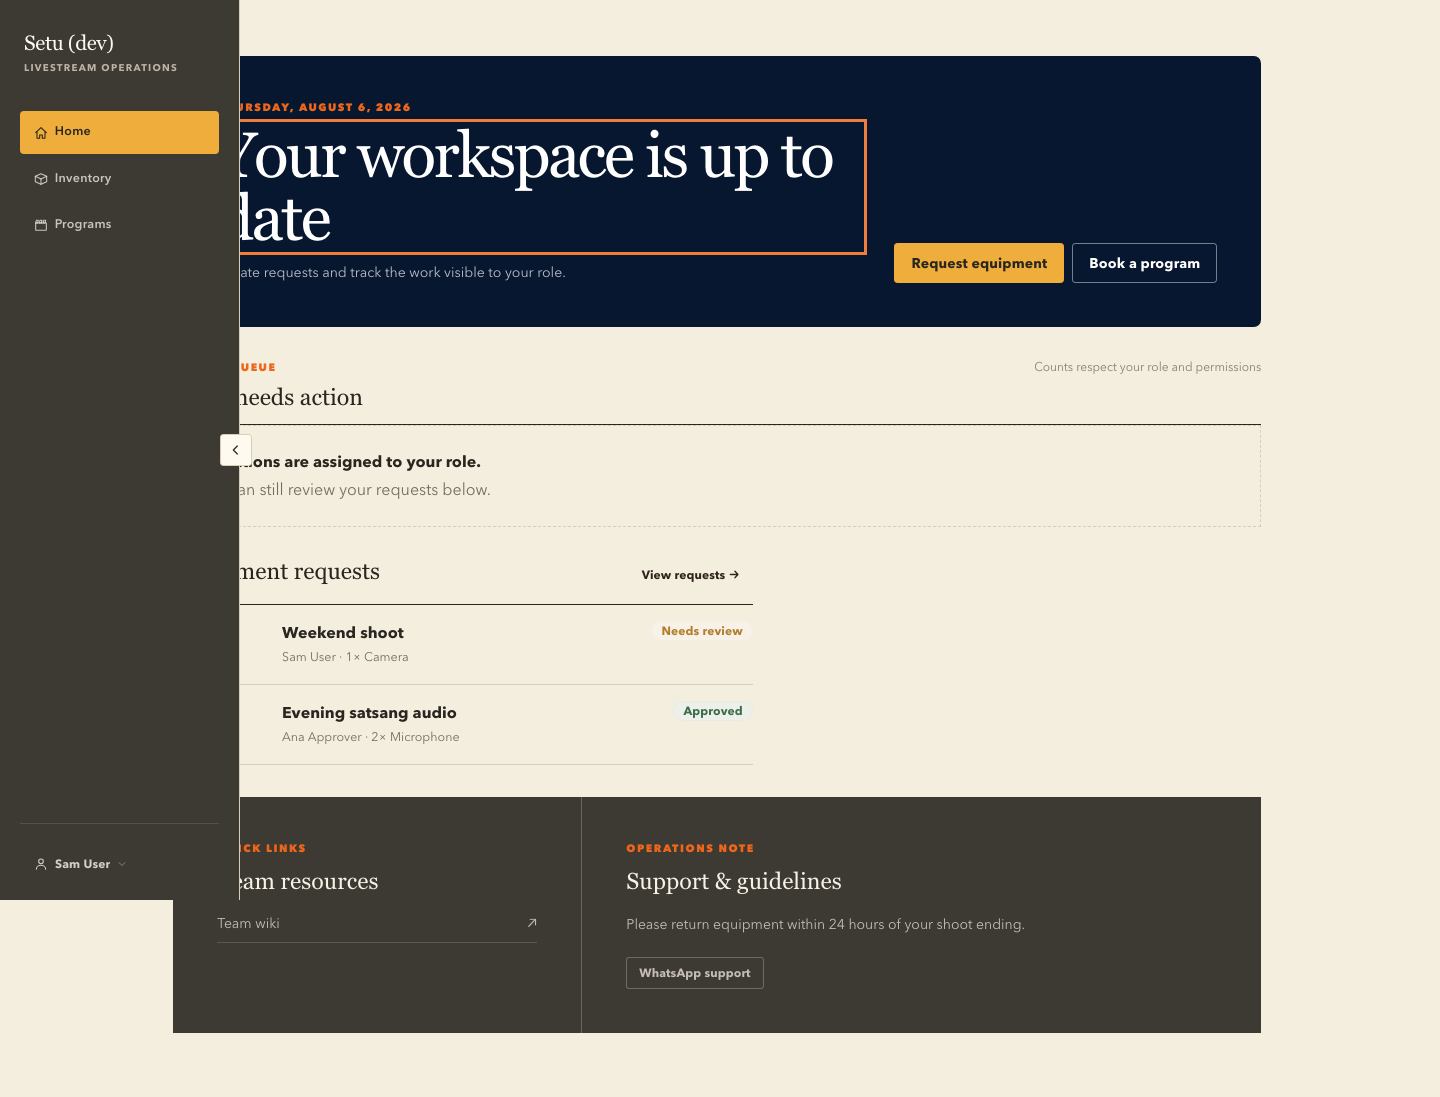
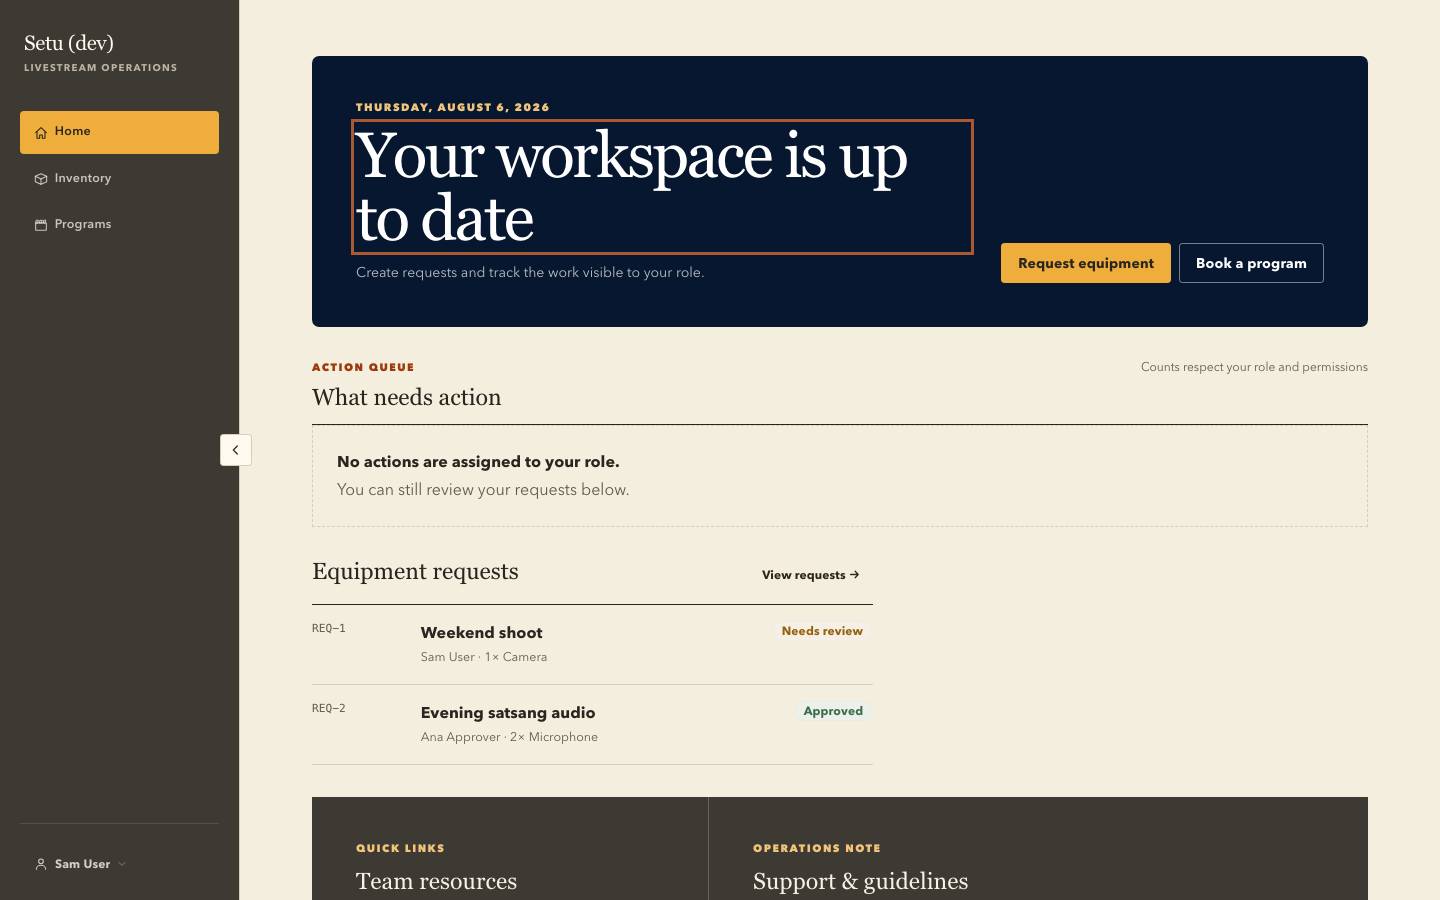
Finalize browser acceptance evidence

diff --git a/test/e2e/evidence.spec.ts b/test/e2e/evidence.spec.ts
@@ -11,11 +11,11 @@ test('capture desktop evidence', async ({ page }, testInfo) => {
     test.skip(!testInfo.project.name.startsWith('desktop'), 'desktop evidence');
     await page.goto(`/?${fast}`);
     await expect(page.getByRole('heading', { name: /actions need attention/i })).toBeVisible();
-    await page.screenshot({ path: `${output}/01-admin-home-desktop.png`, fullPage: true });
+    await page.screenshot({ path: `${output}/01-admin-home-desktop.png`, fullPage: false });
 
     await page.goto(`/?${fast}&mockUser=sam%40example.com`);
     await expect(page.getByRole('heading', { name: 'Your workspace is up to date' })).toBeVisible();
-    await page.screenshot({ path: `${output}/02-user-home-desktop.png`, fullPage: true });
+    await page.screenshot({ path: `${output}/02-user-home-desktop.png`, fullPage: false });
 
     await page.goto(`/?section=programs&mode=create&${fast}`);
     const date = new Date(Date.now() + 4 * 86_400_000).toISOString().slice(0, 10);
@@ -25,19 +25,19 @@ test('capture desktop evidence', async ({ page }, testInfo) => {
     await page.getByLabel('Start').fill(`${date}T09:30`);
     await page.getByLabel('End').fill(`${date}T10:30`);
     await expect(page.getByText(/approved booking conflict/i)).toBeVisible();
-    await page.screenshot({ path: `${output}/06-program-conflict-desktop.png`, fullPage: true });
+    await page.screenshot({ path: `${output}/06-program-conflict-desktop.png`, fullPage: false });
 
     await page.goto(`/?section=tickets&ticket=ticket-1&${fast}`);
     await expect(page.getByRole('heading', { name: 'Projector flickering' })).toBeVisible();
-    await page.screenshot({ path: `${output}/07-ticket-activity-desktop.png`, fullPage: true });
+    await page.screenshot({ path: `${output}/07-ticket-activity-desktop.png`, fullPage: false });
 
     await page.goto(`/?section=roster&${fast}`);
     await expect(page.getByText('August 2026')).toBeVisible();
-    await page.screenshot({ path: `${output}/08-roster-month-desktop.png`, fullPage: true });
+    await page.screenshot({ path: `${output}/08-roster-month-desktop.png`, fullPage: false });
 
     await page.goto(`/?section=home-settings&${fast}`);
     await expect(page.getByRole('heading', { name: 'Home settings' })).toBeVisible();
-    await page.screenshot({ path: `${output}/11-settings-desktop.png`, fullPage: true });
+    await page.screenshot({ path: `${output}/11-settings-desktop.png`, fullPage: false });
 });
 
 test('capture mobile evidence', async ({ page }, testInfo) => {
@@ -45,30 +45,32 @@ test('capture mobile evidence', async ({ page }, testInfo) => {
     await page.goto(`/?${fast}`);
     await page.getByRole('button', { name: 'Open navigation' }).click();
     await expect(page.getByRole('complementary', { name: 'Primary navigation' })).toBeVisible();
-    await page.screenshot({ path: `${output}/03-mobile-navigation.png`, fullPage: true });
+    await page.screenshot({ path: `${output}/03-mobile-navigation.png`, fullPage: false });
 
     await page.goto(`/?section=inventory&${fast}`);
     await expect(page.getByRole('heading', { name: 'Inventory' })).toBeVisible();
-    await page.screenshot({ path: `${output}/04-inventory-board-mobile.png`, fullPage: true });
+    await page.screenshot({ path: `${output}/04-inventory-board-mobile.png`, fullPage: false });
 
     await page.goto(`/?section=inventory&request=req-3&${fast}`);
     await page.getByRole('button', { name: 'Return', exact: true }).click();
     await expect(page.getByRole('dialog')).toBeVisible();
+    await page.waitForTimeout(300);
     await page.screenshot({
         path: `${output}/05-inventory-return-dialog-mobile.png`,
-        fullPage: true,
+        fullPage: false,
     });
     await page.keyboard.press('Escape');
+    await page.waitForTimeout(250);
     await page.screenshot({
         path: `${output}/10-dialog-focus-restored-mobile.png`,
-        fullPage: true,
+        fullPage: false,
     });
 
     await page.goto(`/?section=roster&${fast}`);
     await expect(page.getByRole('heading', { name: 'Roster agenda' })).toBeVisible();
-    await page.screenshot({ path: `${output}/09-roster-agenda-mobile.png`, fullPage: true });
+    await page.screenshot({ path: `${output}/09-roster-agenda-mobile.png`, fullPage: false });
 
     await page.goto(`/?${fast}&mockFailure=dashboard`);
     await expect(page.getByRole('button', { name: 'Try again' })).toBeFocused();
-    await page.screenshot({ path: `${output}/12-error-retry-state-mobile.png`, fullPage: true });
+    await page.screenshot({ path: `${output}/12-error-retry-state-mobile.png`, fullPage: false });
 });

diff --git a/test/e2e/app.spec.ts b/test/e2e/app.spec.ts
@@ -54,14 +54,15 @@ test('inventory requests can be saved, edited, and submitted as drafts', async (
     const end = new Date(Date.now() + 21 * 86_400_000).toISOString().slice(0, 10);
     await page.getByLabel('Name').fill('Draft field kit');
     await page.getByLabel('From').fill(start);
-    await page.getByLabel('To').fill(end);
+    await page.locator('#request-end').fill(end);
     await page.getByLabel('Equipment type').selectOption('inv-1');
     await page.getByRole('button', { name: 'Save draft' }).click();
     await expect(page.getByText('Draft', { exact: true }).first()).toBeVisible();
     await page.getByRole('button', { name: 'Edit draft' }).click();
     await page.getByLabel('Name').fill('Submitted field kit');
     await page.getByRole('button', { name: 'Save and submit' }).click();
-    await expect(page.getByText('Submitted', { exact: true }).first()).toBeVisible();
+    await expect(page.getByText('Needs review', { exact: true }).first()).toBeVisible();
+    await expect(page.getByText(/submitted this request/i)).toBeVisible();
 });
 
 test('rejection requires a structured reason and records the new state', async ({ page }) => {

diff --git a/docs/test-evidence/ui-ux-refactor/README.md b/docs/test-evidence/ui-ux-refactor/README.md
@@ -6,36 +6,29 @@ Offline behavior is intentionally absent from this matrix. Setu and the AppSheet
 
 ## Baseline
 
-| File | Role | Viewport | Scenario | Baseline observation |
-| --- | --- | --- | --- | --- |
-| [01-admin-home-desktop.png](baseline/01-admin-home-desktop.png) | Administrator | 1440×900 | Home | Decorative hero pushes the operational queue below the first viewport. |
-| [02-program-create-desktop.png](baseline/02-program-create-desktop.png) | Administrator | 1440×900 | Program request | Session fields have weak hierarchy and limited conflict context. |
-| [03-ticket-detail-desktop.png](baseline/03-ticket-detail-desktop.png) | Administrator | 1440×900 | Ticket detail | Reporter, priority, place, timestamps, and activity are absent. |
-| [04-roster-mobile.png](baseline/04-roster-mobile.png) | Administrator | 390×844 | Roster | The desktop calendar is compressed into the phone viewport and labels overflow. |
+| File                                                                    | Role          | Viewport | Scenario        | Baseline observation                                                            |
+| ----------------------------------------------------------------------- | ------------- | -------- | --------------- | ------------------------------------------------------------------------------- |
+| [01-admin-home-desktop.png](baseline/01-admin-home-desktop.png)         | Administrator | 1440×900 | Home            | Decorative hero pushes the operational queue below the first viewport.          |
+| [02-program-create-desktop.png](baseline/02-program-create-desktop.png) | Administrator | 1440×900 | Program request | Session fields have weak hierarchy and limited conflict context.                |
+| [03-ticket-detail-desktop.png](baseline/03-ticket-detail-desktop.png)   | Administrator | 1440×900 | Ticket detail   | Reporter, priority, place, timestamps, and activity are absent.                 |
+| [04-roster-mobile.png](baseline/04-roster-mobile.png)                   | Administrator | 390×844  | Roster          | The desktop calendar is compressed into the phone viewport and labels overflow. |
 
 ## Final evidence captured
 
-| File | Role | Viewport | Expected result | Automated coverage |
-| --- | --- | --- | --- | --- |
-| [01-admin-home-desktop.png](final/01-admin-home-desktop.png) | Administrator | 1440×900 | Role-aware action queue is visible immediately. | `admin Home exposes a role-aware action queue and filtered links` |
-| [02-user-home-desktop.png](final/02-user-home-desktop.png) | User | 1440×900 | Non-actionable queues are omitted and the personal workspace remains clear. | Four-role navigation matrix |
-| [03-mobile-navigation.png](final/03-mobile-navigation.png) | Administrator | 390×844 | Drawer navigation is usable without brand or label truncation. | Four-role navigation matrix; mobile axe scan |
-| [04-inventory-board-mobile.png](final/04-inventory-board-mobile.png) | Administrator | 390×844 | Inventory board remains readable and touch targets meet the mobile baseline. | Inventory return and mobile navigation tests |
-| [06-program-conflict-desktop.png](final/06-program-conflict-desktop.png) | Administrator | 1440×900 | Approved place conflict appears before submission. | `program form reports approved place conflicts before submission` |
-| [07-ticket-activity-desktop.png](final/07-ticket-activity-desktop.png) | Administrator | 1440×900 | Ticket metadata and activity log are visible together. | `ticket assignment and activity use structured controls` |
-| [08-roster-month-desktop.png](final/08-roster-month-desktop.png) | Administrator | 1440×900 | Month calendar remains the desktop default. | Roster desktop axe scan |
-| [11-settings-desktop.png](final/11-settings-desktop.png) | Administrator | 1440×900 | Home settings are separate from Roster presets and every control is labelled. | Legacy URL regression; settings axe scan |
-
-## Remaining capture gate
-
-The final evidence run must still regenerate the following four files after the last accessibility fixes. They are intentionally not represented by placeholders:
-
-- `05-inventory-return-dialog-mobile.png` — one structured batch-return dialog.
-- `09-roster-agenda-mobile.png` — phone agenda with no horizontal overflow.
-- `10-dialog-focus-restored-mobile.png` — focus returned to the invoking action after Escape.
-- `12-error-retry-state-mobile.png` — focused retry action after a dashboard failure.
-
-The capture gate is `npm run test:evidence`. The PR must remain Draft until this command and the complete `npm run test:ui` matrix pass in the final tree.
+| File                                                                                 | Role          | Viewport | Expected result                                                                     | Automated coverage                                                |
+| ------------------------------------------------------------------------------------ | ------------- | -------- | ----------------------------------------------------------------------------------- | ----------------------------------------------------------------- |
+| [01-admin-home-desktop.png](final/01-admin-home-desktop.png)                         | Administrator | 1440×900 | Role-aware action queue is visible immediately.                                     | `admin Home exposes a role-aware action queue and filtered links` |
+| [02-user-home-desktop.png](final/02-user-home-desktop.png)                           | User          | 1440×900 | Non-actionable queues are omitted and the personal workspace remains clear.         | Four-role navigation matrix                                       |
+| [03-mobile-navigation.png](final/03-mobile-navigation.png)                           | Administrator | 390×844  | Drawer navigation is usable without brand or label truncation.                      | Four-role navigation matrix; mobile axe scan                      |
+| [04-inventory-board-mobile.png](final/04-inventory-board-mobile.png)                 | Administrator | 390×844  | Inventory board remains readable and touch targets meet the mobile baseline.        | Inventory return and mobile navigation tests                      |
+| [05-inventory-return-dialog-mobile.png](final/05-inventory-return-dialog-mobile.png) | Administrator | 390×844  | One structured dialog records every returned item and blocks duplicate interaction. | Inventory return flow                                             |
+| [06-program-conflict-desktop.png](final/06-program-conflict-desktop.png)             | Administrator | 1440×900 | Approved place conflict appears before submission.                                  | `program form reports approved place conflicts before submission` |
+| [07-ticket-activity-desktop.png](final/07-ticket-activity-desktop.png)               | Administrator | 1440×900 | Ticket metadata and activity log are visible together.                              | `ticket assignment and activity use structured controls`          |
+| [08-roster-month-desktop.png](final/08-roster-month-desktop.png)                     | Administrator | 1440×900 | Month calendar remains the desktop default.                                         | Roster desktop axe scan                                           |
+| [09-roster-agenda-mobile.png](final/09-roster-agenda-mobile.png)                     | Administrator | 390×844  | Phone layout uses an agenda with no horizontal overflow.                            | Mobile Roster overflow test and axe scan                          |
+| [10-dialog-focus-restored-mobile.png](final/10-dialog-focus-restored-mobile.png)     | Administrator | 390×844  | Escape closes the dialog and returns focus to the invoking action.                  | Dialog focus-restoration test                                     |
+| [11-settings-desktop.png](final/11-settings-desktop.png)                             | Administrator | 1440×900 | Home settings are separate from Roster presets and every control is labelled.       | Legacy URL regression; settings axe scan                          |
+| [12-error-retry-state-mobile.png](final/12-error-retry-state-mobile.png)             | Administrator | 390×844  | Dashboard failure presents a focused, keyboard-operable retry path.                 | Dashboard failure and retry test                                  |
 
 ## Verification record
 
@@ -43,9 +36,10 @@ The capture gate is `npm run test:evidence`. The PR must remain Draft until this
 - `npm run build` — passed.
 - `npm run format:check` — passed.
 - `npm run test:unit` — 2 files, 9 tests passed.
+- `npm run test:ui` — 37 passed, 7 intentionally skipped by viewport, 0 failed.
 - Extended axe coverage — Home (desktop/mobile), Inventory, Program form, Ticket detail, Roster (desktop/mobile), and Home settings passed with no critical or serious WCAG A/AA findings.
-- Structured dialog focus restoration, role navigation, return, program conflict, ticket activity, legacy settings URL, retry state, and mobile overflow were exercised in the browser during implementation.
-- The final full Playwright rerun and the four screenshots above are pending because the local browser execution permission became unavailable after the targeted passes.
+- Structured dialog focus restoration, role navigation, draft save/edit/submit, rejection, return, program conflict, ticket activity, legacy settings URL, retry state, and mobile overflow were exercised in the browser.
+- The final evidence run regenerated all 12 post-change screenshots from the completed code.
 
 ## Sheets migration gate
 
